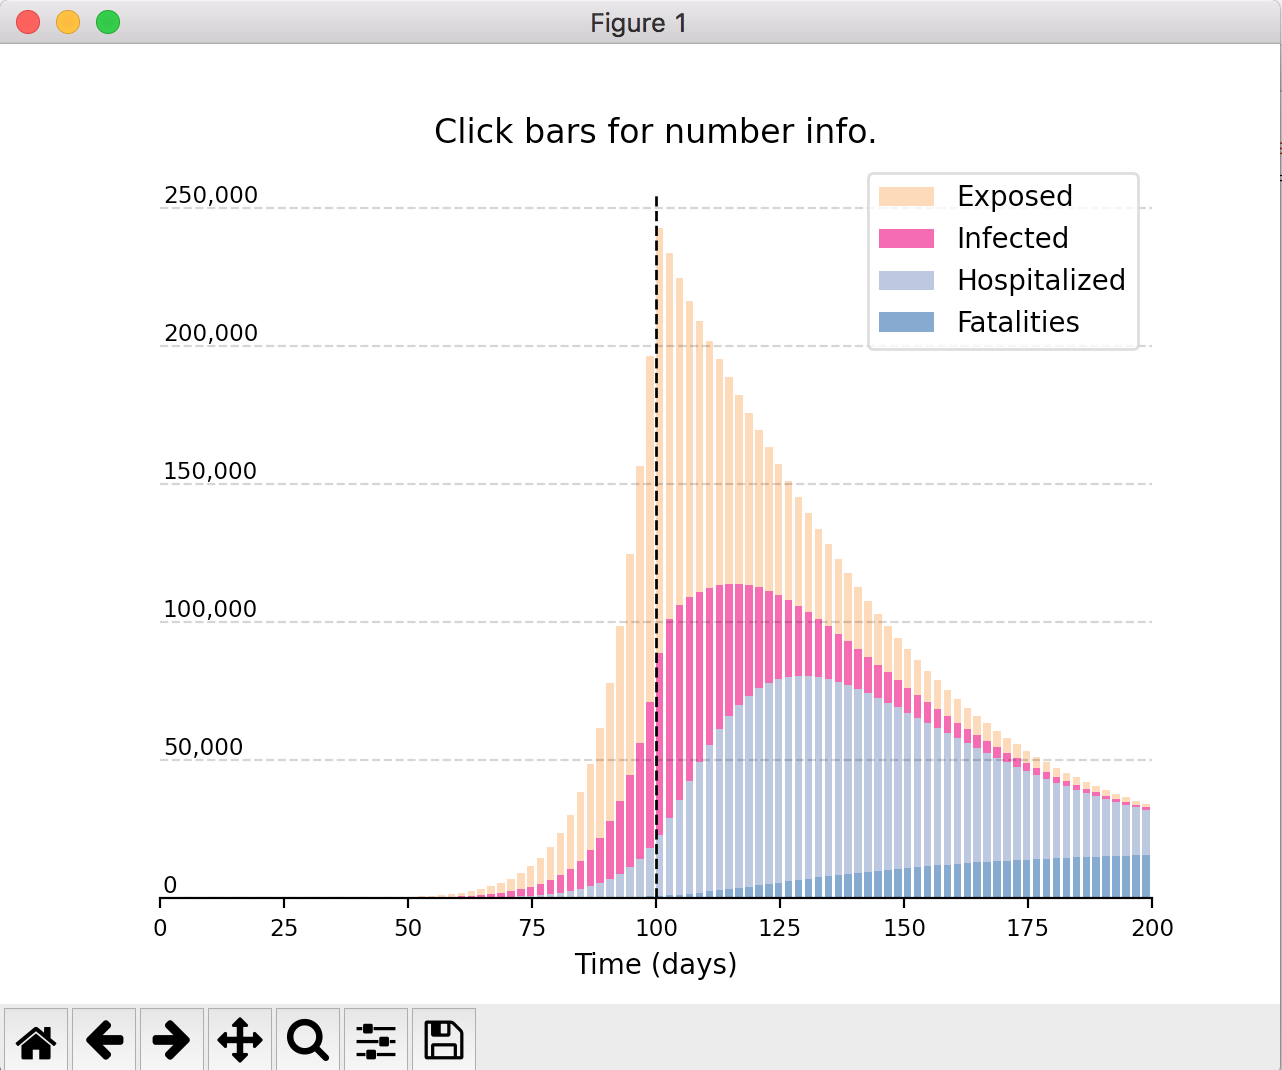
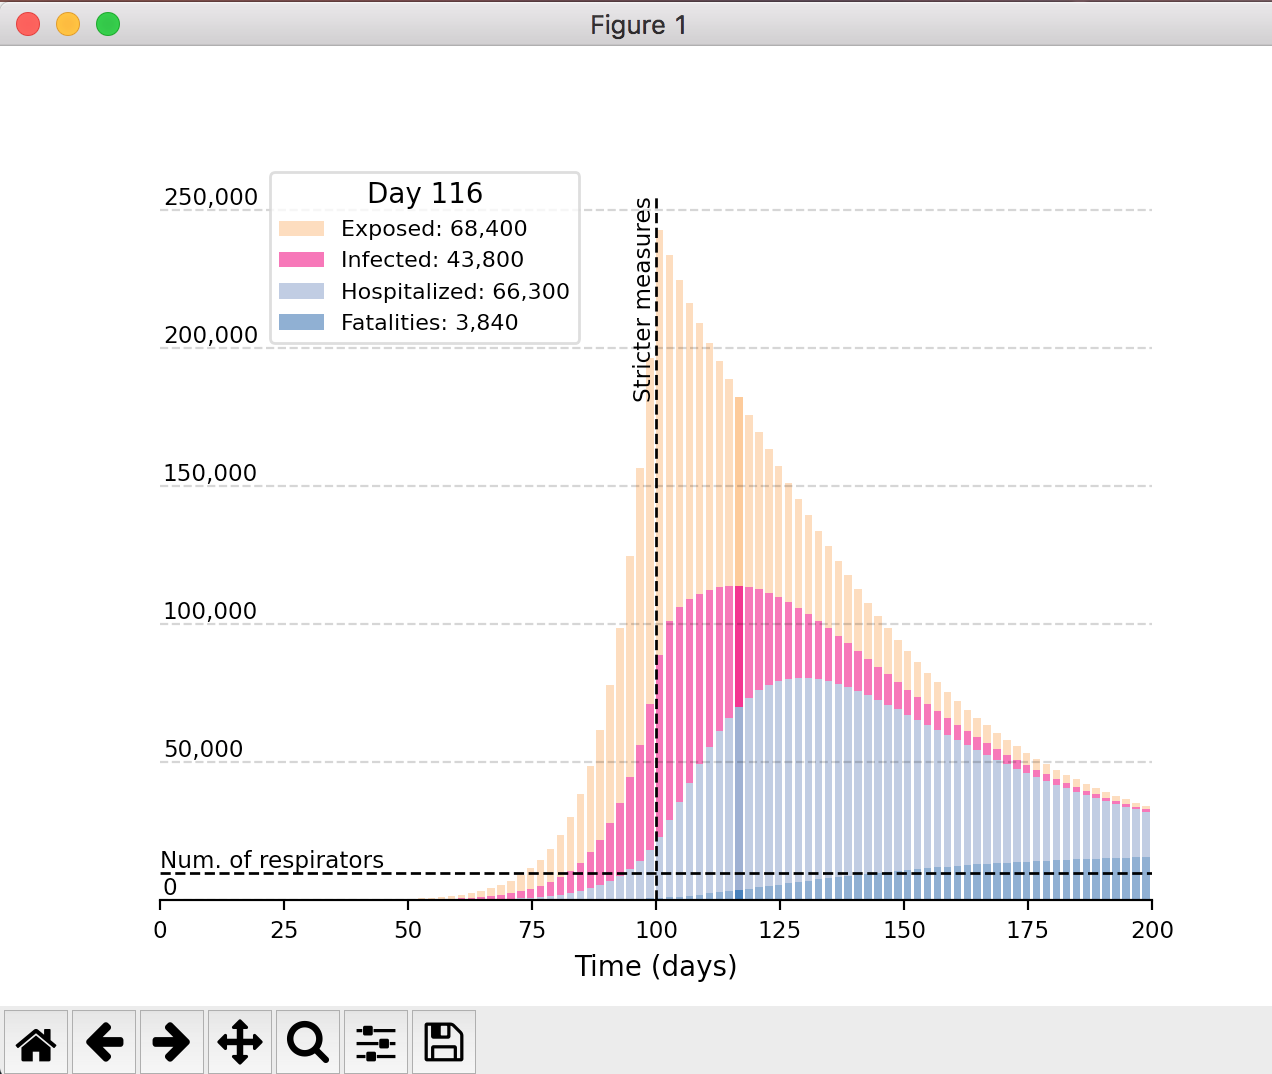
Added text, alpha-highlighting

diff --git a/src/corona/epcalc.py b/src/corona/epcalc.py
@@ -156,9 +156,11 @@ class NamedState:
     R_Sevr      : float
     R_Fatl      : float
     @property
-    def Fatalities(self): return self.R_Fatl
-    @property
     def Hospitalized(self): return self.I_Hosp + self.I_Fatl
+    @property
+    def Recovered(self): return self.R_Mild + self.R_Sevr
+    @property
+    def Fatalities(self): return self.R_Fatl
 
 state = NamedState(*N*xx.T)
 
@@ -176,78 +178,121 @@ fig, ax = freshfig(1)
 # if use_simple_model:
 #     lbl='Recovered'; ax.plot(tt, RR, label=lbl, c=colrs[lbl])
 
-def stack_bar(label):
-    """Add a bar chart (histogram),
+class StackedBarChart:
+    """A bar chart (histogram),
 
-    but stack on top of previously added.
+    but stacking each series on top of the previous.
     """
-    stack = stack_bar.stack
-    ax    = stack_bar.ax
+    def __init__(self,ax,state,tt_full):
+        self.ax = ax
+        self.state = state
+        self.tt_full = tt_full
 
-    # Down-sample (interpolate)
-    _dt = 2 # plot resolution (in days)
-    _xx = arange(0,t_end,_dt)
-    _yy = np.interp(_xx, tt, getattr(state,label))
-     
-    cum = np.sum([y for y,l in stack], 0)
+        self.stack = {}
+        self.handles = {}
 
-    h = ax.bar(_xx, _yy, .75*_dt, label=label, bottom=cum,
-            color=colrs[label], alpha=0.7, align="edge",picker=5)
-    stack_bar.handles += h
+        self.dt = 2 # plot resolution (in days)
+        self.tt = arange(0,t_end,self.dt)
 
-    stack.append((_yy,label))
+        self.alpha = .65
 
-# Init stacked bar chart
-stack_bar.stack = []
-stack_bar.ax = ax
-stack_bar.handles = []
+    def add(self,label):
+        # Down-sample (interpolate)
+        yy = np.interp(self.tt, self.tt_full, getattr(self.state,label))
+         
+        # Accumulate bars
+        cum = np.sum([y for y in self.stack.values()], 0)
+
+        # Plot
+        hh = self.ax.bar(self.tt, yy, .75*self.dt, bottom=cum,
+                label=label, color=colrs[label],
+                alpha=self.alpha, align="edge",picker=5)
+
+        # Append bar heights to stack
+        self.handles[label] = hh
+        self.stack[label] = yy
+
+    def day_index(self,t):      return abs(self.tt      - t).argmin()
+    def day_index_full(self,t): return abs(self.tt_full - t).argmin()
+
+    def set_legend_for_day(self,t):
+        iDay = self.day_index_full(t)
+        handles, labels = self.ax.get_legend_handles_labels()
+        for i,lbl in enumerate(labels):
+            num  = getattr(self.state,lbl)[iDay]
+            new  = lbl.split(":")[0] + ": "
+            new += thousands(round2sigfig(num,3))
+            labels[i] = new
+        self.ax.legend(handles[::-1],labels[::-1],
+                title="Day %d"%self.tt_full[iDay],
+                **leg_kws)
+        plt.pause(0.01)
+
+    def set_alpha_for_day(self,t):
+
+        def setter(iDay,alpha):
+            for label, rectangles in self.handles.items():
+                rectangles[iDay].set_alpha(alpha)
+
+        # Reset alpha
+        try:
+            setter(self._iDay_alpha, self.alpha)
+        except AttributeError:
+            pass
+
+        # Set alpha
+        iDay = self.day_index(t)
+        setter(iDay,1)
+        plt.pause(0.01)
+        self._iDay_alpha = iDay
+
+    def onpick(self,event):
+        rectangle = event.artist
+        time = rectangle.xy[0]
+        self.set_legend_for_day(time)
+        self.set_alpha_for_day(time)
+
+
+
 # Add bars
-stack_bar("Fatalities")
-stack_bar("Hospitalized")
-stack_bar("Infected")
-stack_bar("Exposed")
+barchart = StackedBarChart(ax,state,tt)
+barchart.add("Fatalities")
+barchart.add("Hospitalized")
+# barchart.add("Recovered")
+barchart.add("Infected")
+barchart.add("Exposed")
+# barchart.add("Susceptible")
+fig.canvas.mpl_connect('pick_event', barchart.onpick)
 
-
-def todays_legend(day):
-    handles, labels = ax.get_legend_handles_labels()
-    for i,lbl in enumerate(labels):
-        num  = getattr(state,lbl)[day]
-        new  = lbl.split(":")[0]
-        new += ": %d"%int(round2sigfig(num,3))
-        labels[i] =new
-    ax.legend(handles[::-1],labels[::-1], title="Day %d"%tt[day])
-    plt.pause(0.01)
-
-
-def onpick(event):
-    rectangle = event.artist
-    today = rectangle.xy[0]
-    today_k = abs(tt-today).argmin()
-    todays_legend(today_k)
-fig.canvas.mpl_connect('pick_event', onpick)
-
-
+# Plot number of respirators
 # nrk.no/vestland/mener-helsemyndighetene-overdriver-intensivkapasiteten-i-norge-1.14938514
-# nRespirators = 1000
-# ax
+nRespirators = 10000
+ax.plot([0,t_end], 2*[nRespirators],"k--",lw=1,label="_nolegend_")
+# ax.text(t_end, nRespirators,"Num. of respirators", va="bottom", ha="right",fontsize="small")
+ax.text(0, nRespirators,"Num. of respirators", va="bottom", fontsize="small")
 
+# Plot intervention line:
+axY = ax.get_ylim()[1]
+ax.plot(2*[InterventionTime], [0,axY], "k--", lw=1,label="_nolegend_")
+ax.text(InterventionTime, axY,"Stricter measures", va="top", ha="right",fontsize="small",rotation=90)
 
 # Adjust plot properties
 ax.set_xlabel('Time (days)')
 # ax.set_ylabel('People')
-ax.legend()
-ax.set_title("Click bars for number info.")
-reverse_legend(ax)
+leg_kws = dict(loc="upper left", bbox_to_anchor=(0.1,1), fontsize="8")
+ax.legend(
+        list(barchart.handles.values())[::-1],
+        list(barchart.handles.keys())[::-1],
+        **leg_kws)
+# reverse_legend(ax)
+# ax.legend(**leg_kws)
 # ax.set_ylim(0,9e5)
 ax.set_xlim(0,t_end)
-# Plot intervention line:
-ax.plot(2*[InterventionTime], [0,ax.get_ylim()[1]], "k--", lw=1,label="_nolegend_")
 
 # More adjustments:
 for edge in ["right","left","top"]:
     ax.spines[edge].set_visible(False)
 ax.grid(axis="y",ls="--",alpha=0.2, color="k")
-thousands = mpl.ticker.StrMethodFormatter('{x:,.0f}')
 ax.yaxis.set_major_formatter(thousands)
 ax.tick_params(axis="y",pad=-1,length=0)
 ax.tick_params(axis="both",labelsize="small")

diff --git a/src/corona/utils.py b/src/corona/utils.py
@@ -69,12 +69,6 @@ def freshfig(num=None,figsize=None,*args,**kwargs):
     _, ax = plt.subplots(num=fig.number,*args,**kwargs)
     return fig, ax
 
-def reverse_legend(ax):
-    "Reverse order of legend items in ``ax``."
-    leg = ax.get_legend_handles_labels()
-    leg = list(map(list, zip(*leg)))[::-1]
-    ax.legend(*zip(*leg))
-
 
 colrs = dict(
         Fatalities="#386cb0",
@@ -85,7 +79,7 @@ colrs = dict(
         Susceptible="grey",
         )
 
-
+thousands = mpl.ticker.StrMethodFormatter('{x:,.0f}')
 
 
 
